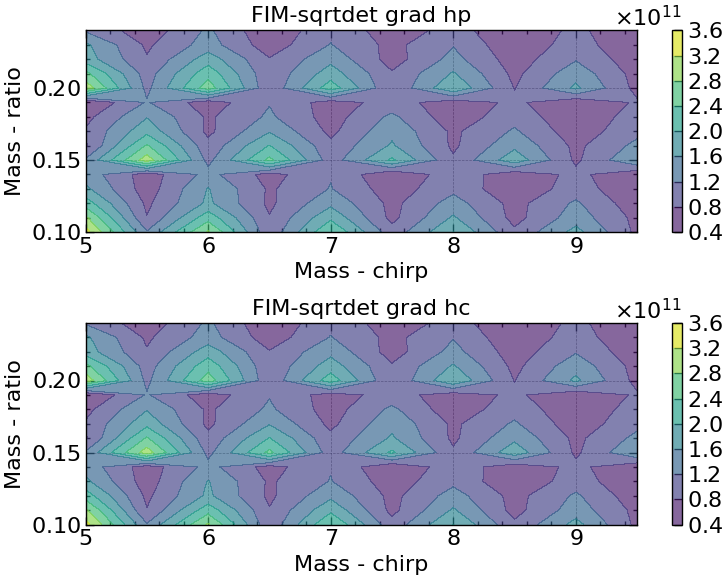
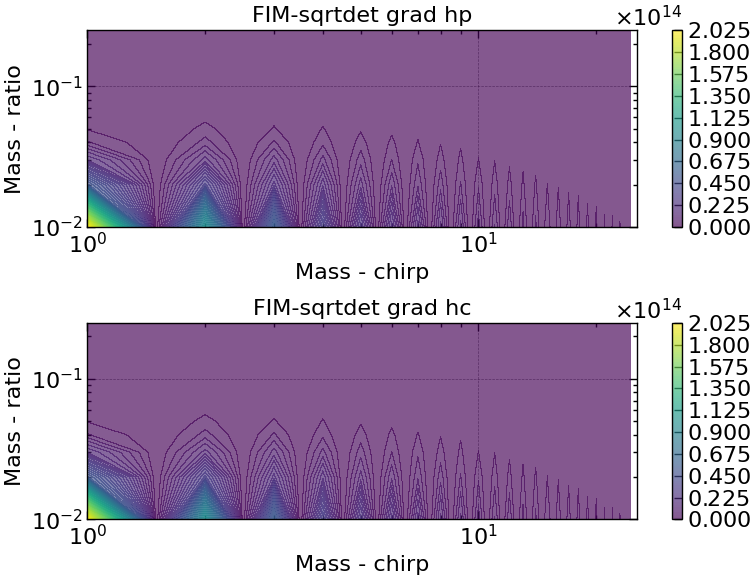
Formatting update

diff --git a/data/gw_plotter.py b/data/gw_plotter.py
@@ -49,10 +49,10 @@ def ripple_theta_label(idx: int):
 
 
 def ripple_waveform_plot(
-        h_plus: jnp.ndarray, 
-        h_cros: jnp.ndarray, 
-        f_sig: jnp.ndarray,
-    ):
+    h_plus: jnp.ndarray,
+    h_cros: jnp.ndarray,
+    f_sig: jnp.ndarray,
+):
     # Plot init
     fig, (ax1, ax2) = plt.subplots(2, 1)
     # Plotter
@@ -74,12 +74,12 @@ def ripple_waveform_plot(
 
 
 def ripple_grad_plot_idx(
-        grad_hp: jnp.ndarray, 
-        grad_hc: jnp.ndarray, 
-        f_sig: jnp.ndarray, 
-        idx1: int, 
-        idx2: int,
-    ):
+    grad_hp: jnp.ndarray,
+    grad_hc: jnp.ndarray,
+    f_sig: jnp.ndarray,
+    idx1: int,
+    idx2: int,
+):
     # Local variable repo
     label1 = ripple_theta_label(idx1)
     label2 = ripple_theta_label(idx2)
@@ -139,11 +139,11 @@ def fim_plot(data: jnp.ndarray):
 
 
 def fim_param_plot(
-        fim_hp_repo: jnp.ndarray, 
-        fim_hc_repo: jnp.ndarray, 
-        mc_repo: jnp.ndarray, 
-        mr_repo: jnp.ndarray,
-    ):
+    fim_hp_repo: jnp.ndarray,
+    fim_hc_repo: jnp.ndarray,
+    mc_repo: jnp.ndarray,
+    mr_repo: jnp.ndarray,
+):
     # Grid - mc, mr
     mc_grid, mr_grid = jnp.meshgrid(mc_repo, mr_repo, indexing='ij')
     # Flatten - mc, mr
@@ -156,10 +156,14 @@ def fim_param_plot(
     ax3.scatter(mc_data, fim_hc_repo, label="Mass - chirp", alpha=0.5, s=10)
     ax4.scatter(mr_data, fim_hc_repo, label="Mass - ratio", alpha=0.5, s=10)
     # Plot custmoization
-    ax1.set(xlabel="Mass - chirp", ylabel="FIM - Sqrt of Det", title="fim_hp-mc")
-    ax2.set(xlabel="Mass - ratio", ylabel="FIM - Sqrt of Det", title="fim_hp-mr")
-    ax3.set(xlabel="Mass - chirp", ylabel="FIM - Sqrt of Det", title="fim_hc-mc")
-    ax4.set(xlabel="Mass - ratio", ylabel="FIM - Sqrt of Det", title="fim_hc-mr")
+    ax1.set(xlabel="Mass - chirp", ylabel="FIM - Sqrt of Det",
+            title="fim_hp-mc", xscale="log", yscale="log")
+    ax2.set(xlabel="Mass - ratio", ylabel="FIM - Sqrt of Det",
+            title="fim_hp-mr", xscale="log", yscale="log")
+    ax3.set(xlabel="Mass - chirp", ylabel="FIM - Sqrt of Det",
+            title="fim_hc-mc", xscale="log", yscale="log")
+    ax4.set(xlabel="Mass - ratio", ylabel="FIM - Sqrt of Det",
+            title="fim_hc-mr", xscale="log", yscale="log")
     ax1.legend()
     ax2.legend()
     ax3.legend()
@@ -173,11 +177,11 @@ def fim_param_plot(
 
 
 def fim_contour_plot(
-        fim_hp_repo: jnp.ndarray, 
-        fim_hc_repo: jnp.ndarray, 
-        mc_repo: jnp.ndarray, 
-        mr_repo: jnp.ndarray,
-    ):
+    fim_hp_repo: jnp.ndarray,
+    fim_hc_repo: jnp.ndarray,
+    mc_repo: jnp.ndarray,
+    mr_repo: jnp.ndarray,
+):
     # Grid - mc, mr
     mc_grid, mr_grid = jnp.meshgrid(mc_repo, mr_repo, indexing='ij')
     # Plot data process
@@ -186,11 +190,13 @@ def fim_contour_plot(
     # Plot init
     fig, (ax1, ax2) = plt.subplots(2, 1)
     # Plotter
-    cs1 = ax1.contourf(mc_grid, mr_grid, plotmat_hp, alpha=0.66)
-    cs2 = ax2.contourf(mc_grid, mr_grid, plotmat_hc, alpha=0.66)
+    cs1 = ax1.contourf(mc_grid, mr_grid, plotmat_hp, alpha=0.66, levels=100)
+    cs2 = ax2.contourf(mc_grid, mr_grid, plotmat_hc, alpha=0.66, levels=100)
     # Plot customization
-    ax1.set(xlabel="Mass - chirp", ylabel="Mass - ratio", title="FIM-sqrtdet grad hp")
-    ax2.set(xlabel="Mass - chirp", ylabel="Mass - ratio", title="FIM-sqrtdet grad hc")
+    ax1.set(xlabel="Mass - chirp", ylabel="Mass - ratio",
+            title="FIM-sqrtdet grad hp", xscale="log", yscale="log")
+    ax2.set(xlabel="Mass - chirp", ylabel="Mass - ratio",
+            title="FIM-sqrtdet grad hc", xscale="log", yscale="log")
     plt.colorbar(cs1, ax=ax1)
     plt.colorbar(cs2, ax=ax2)
     # Plot admin

diff --git a/main.py b/main.py
@@ -7,34 +7,29 @@ Created on Thu Jul 11 2023
 """
 # %%
 # Section 0 - Library import
-import jax
 import jax.numpy as jnp
-from data import gw_ripple, gw_fisher, gw_plotter, gw_config
+from data import gw_ripple, gw_fisher, gw_plotter
+from data.gw_config import f_sig, f_psd, mc_repo, mr_repo, theta_repo
 
 # %%
-# Section 1 - Config result import
-# Freq - signal, reference, PSD
-f_sig, f_ref, f_psd = gw_config.f_sig, gw_config.f_ref, gw_config.f_psd
-# Repo - mc, mr, theta
-mc_repo, mr_repo, theta_repo = gw_config.mc_repo, gw_config.mr_repo, gw_config.theta_repo
-
-# %%
-# Section 2.a -  Define GW Mock data theta
+# Section 1.a -  Define GW Mock data theta
 # mc, mr, s1, s2, dist_mpc, c_time, c_phas, ang_inc, ang_pol
-mock_waveform_theta = jnp.array([28.0956, 0.2471, 0.0, 0.0, 40.0, 0.0, 0.0, 0.0, 0.0])
+mock_waveform_theta = jnp.array(
+    [28.0956, 0.2471, 0.0, 0.0, 40.0, 0.0, 0.0, 0.0, 0.0])
 mock_theta = jnp.array([mock_waveform_theta])
 
 # %%
-# Section 2.b -  Mock GW data generate - waveform, grad, plots
+# Section 1.b -  Mock GW data generate - waveform, grad, plots
 # t ~ 4min43.0s - first compile
 mock_hp, mock_hc = gw_ripple.waveform(mock_waveform_theta)
-mock_hp_grad, mock_hc_grad = gw_ripple.grad_plus(mock_theta)[0], gw_ripple.grad_cros(mock_theta)[0]
-mock_idx = jnp.array([0, 1])                                     
+mock_hp_grad, mock_hc_grad = gw_ripple.grad_plus(
+    mock_theta)[0], gw_ripple.grad_cros(mock_theta)[0]
+mock_idx = jnp.array([0, 1])
 gw_plotter.ripple_waveform_plot(mock_hp, mock_hc, f_sig)
 gw_plotter.ripple_grad_plot_idx(mock_hp_grad, mock_hc_grad, f_sig, *mock_idx)
 
 # %%
-# Section 2.c - Mock GW data generate - FIM, sqrt.det.fim, plots
+# Section 1.c - Mock GW data generate - FIM, sqrt.det.fim, plots
 data_idx = jnp.arange(len(mock_waveform_theta))
 mock_fim = gw_fisher.build_fim(mock_hp_grad, data_idx)
 mock_fim_sqrtdet = gw_fisher.sqrtdet_fim(mock_hp_grad, mock_idx)
@@ -42,22 +37,22 @@ gw_plotter.fim_plot(mock_fim)
 gw_plotter.bilby_plot(f_sig, f_psd)
 
 # %%
-# Section 3.a - GW data generation - mc, mr - grad, sqrt.det.fim, plots
-# t ~ 5min08.5s - shape(150, 976, 9) - t ~ 100ms per grad array of 976 entries
-data_hp_grad_repo, data_hc_grad_repo = gw_ripple.grad_plus(theta_repo), gw_ripple.grad_cros(theta_repo)
+# Section 2.a - GW data generation - mc, mr - grad, sqrt.det.fim, plots
+# t ~ 5min08.5s - shape(0150, 976, 9)
+# t ~ 5min08.5s - shape(1250, 976, 9)
+data_hp_grad_repo, data_hc_grad_repo = gw_ripple.grad_plus(
+    theta_repo), gw_ripple.grad_cros(theta_repo)
 
 # %%
-# Section 3.b
-# shape(150, 1)
+# Section 2.b
 data_fim_hp_repo = jnp.array([
     [gw_fisher.sqrtdet_fim(data_hp_grad_repo[i, :, :], mock_idx)]
     for i in range(data_hp_grad_repo.shape[0])
 ])
-# shape(150, 1)
 data_fim_hc_repo = jnp.array([
     [gw_fisher.sqrtdet_fim(data_hc_grad_repo[i, :, :], mock_idx)]
     for i in range(data_hc_grad_repo.shape[0])
 ])
 gw_plotter.fim_param_plot(data_fim_hp_repo, data_fim_hc_repo, mc_repo, mr_repo)
-gw_plotter.fim_contour_plot(data_fim_hp_repo, data_fim_hc_repo, mc_repo, mr_repo)
-# %%
+gw_plotter.fim_contour_plot(
+    data_fim_hp_repo, data_fim_hc_repo, mc_repo, mr_repo)

diff --git a/data/gw_config.py b/data/gw_config.py
@@ -16,9 +16,9 @@ import bilby
 # Frequency - min, max, step
 f_min, f_max, f_del = 24.0, 512.0, 0.5
 # Chirp mass - min, max, step
-mc_min, mc_max, mc_del = 5.0, 10.0, 0.5
+mc_min, mc_max, mc_del = 1.0, 26.0, 0.5
 # Mass ratio - min, max, step
-mr_min, mr_max, mr_del = 0.10, 0.25, 0.01
+mr_min, mr_max, mr_del = 0.01, 0.26, 0.01
 # Base theta - s1, s2, dist_mpc, c_time, c_phas, ang_inc, and_pol
 theta_base = jnp.array([0.0, 0.0, 40.0, 0.0, 0.0, 0.0, 0.0])
 # ============================================================ #
@@ -27,27 +27,27 @@ theta_base = jnp.array([0.0, 0.0, 40.0, 0.0, 0.0, 0.0, 0.0])
 # Frequency array builder
 
 
-def freq_ripple(f_min: float, f_max: float, f_del: float):
+def freq_ripple(data_min: float, data_max: float, data_del: float):
     # Calculate and return freq - signal, reference
-    return jnp.arange(f_min, f_max, f_del), f_min
+    return jnp.arange(data_min, data_max, data_del), data_min
 
 
-def freq_fisher(f_min: float, f_max: float, f_del: float):
+def freq_fisher(data_min: float, data_max: float, data_del: float):
     # Calculate and return freq - difference, sampling, duration
     return (
-        f_max - f_min,
-        (f_max - f_min) / f_del,
-        1 / f_del,
+        data_max - data_min,
+        (data_max - data_min) / data_del,
+        1 / data_del,
     )
 
 
-def freq_psd(f_samp: float, f_dura: float):
+def freq_psd(data_samp: float, data_dura: float):
     # Get detector
     detector = bilby.gw.detector.get_empty_interferometer("H1")
     # Get sampling freq
-    detector.sampling_frequency = f_samp
+    detector.sampling_frequency = data_samp
     # Get dectector duration
-    detector.duration = f_dura
+    detector.duration = data_dura
     # Return psd as func result
     return detector.power_spectral_density_array[1:]
 
@@ -55,17 +55,22 @@ def freq_psd(f_samp: float, f_dura: float):
 # Theta tuple builder
 
 
-def theta_ripple(mc_repo: jnp.ndarray, mr_repo: jnp.ndarray, theta_base: jnp.ndarray):
+def theta_ripple(
+        data_mc_repo: jnp.ndarray,
+        data_mr_repo: jnp.ndarray,
+        data_theta_base: jnp.ndarray
+    ):
     # Custom concatenater
     def theta_join(matrix):
         # Return joined matrix
-        return jnp.concatenate((matrix, theta_base))
-    # Build mc and mr grid 
-    mc_grid, mr_grid = jnp.meshgrid(mc_repo, mr_repo)
+        return jnp.concatenate((matrix, data_theta_base))
+    # Build mc and mr grid
+    mc_grid, mr_grid = jnp.meshgrid(data_mc_repo, data_mr_repo)
     # Construct (mc, mr) matrix
     matrix = jnp.stack((mc_grid.flatten(), mr_grid.flatten()), axis=-1)
     # Return joined matrix
     return jax.vmap(theta_join)(matrix)
+
 
 # %%
 # Generate results

diff --git a/data/gw_fisher.py b/data/gw_fisher.py
@@ -35,9 +35,9 @@ def inner_prod(data: jnp.ndarray, idx: tuple):
     # Get grad product element
     grad_prod = grad_i * grad_j
     # Get inner product - raw
-    inner_prod = jnp.sum(grad_prod / f_psd)
+    inner_product = jnp.sum(grad_prod / f_psd)
     # Return inner product reult - real part
-    return 4 * f_diff * jnp.real(inner_prod)
+    return 4 * f_diff * jnp.real(inner_product)
 
 # %%
 # FIM - matrix handler

diff --git a/data/gw_ripple.py b/data/gw_ripple.py
@@ -30,7 +30,7 @@ f_sig, f_ref = gw_config.f_sig, gw_config.f_ref
 def waveform(theta: jnp.ndarray):
     # Generate and return strain waveform - plus, cross
     return IMRPhenomXAS.gen_IMRPhenomXAS_polar(
-            f_sig, theta, f_ref)
+        f_sig, theta, f_ref)
 
 
 def waveform_plus(theta: jnp.ndarray, freq: jnp.ndarray):
